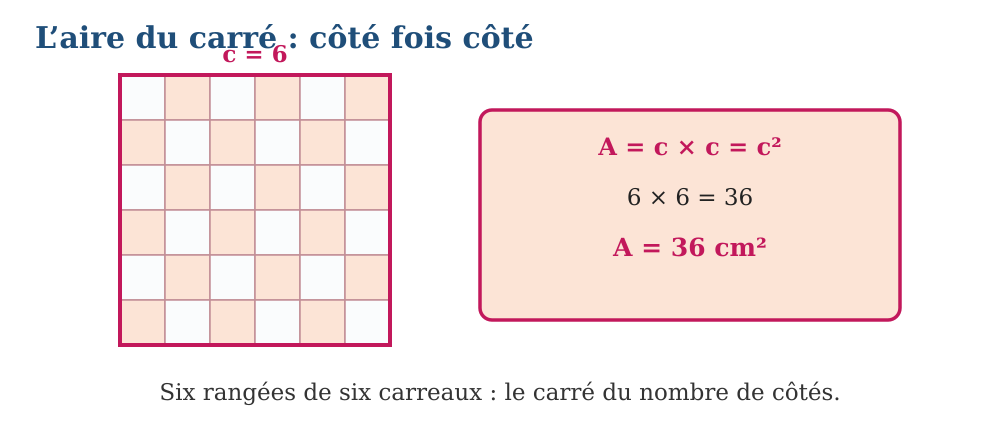
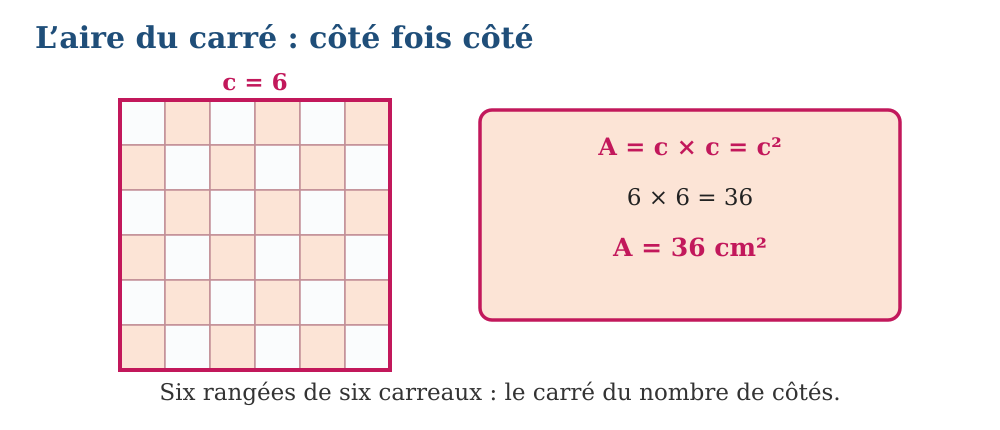
T7 U5: figs corrected (labels, widths, examples coherence)

diff --git a/scripts/t7/u5_figs2.js b/scripts/t7/u5_figs2.js
@@ -22,7 +22,8 @@ svgPng('t7u5s5_maison', svgHead(1000,430,'Un mur + un pignon : rectangle et tria
 <polygon points="110,190 340,190 225,110" fill="#FCE4D6" stroke="#C2185B" stroke-width="3.5"/>
 <text x="225" y="345" font-size="22" text-anchor="middle" fill="#1F4E79" font-weight="bold">6 m</text>
 <text x="360" y="262" font-size="22" fill="#1F4E79" font-weight="bold">4 m</text>
-<text x="262" y="150" font-size="20" fill="#C2185B" font-weight="bold">h = 2</text>
+<text x="365" y="150" font-size="20" fill="#C2185B" font-weight="bold">h = 2</text>
+<line x1="360" y1="142" x2="330" y2="130" stroke="#C2185B" stroke-width="2"/>
 <rect x="470" y="105" width="460" height="235" rx="12" fill="#E9F5EC" stroke="#1E7B34" stroke-width="3.5"/>
 <text x="700" y="150" font-size="22" text-anchor="middle" fill="#1F4E79" font-weight="bold">mur : 6 × 4 = 24 m²</text>
 <text x="700" y="198" font-size="22" text-anchor="middle" fill="#C2185B" font-weight="bold">pignon : (6 × 2) : 2 = 6 m²</text>
@@ -55,17 +56,16 @@ ${[0,1,2].map(i=>`<text x="${355+i*190}" y="${200+i*50}" font-size="21" text-anc
 
 svgPng('t7u5s6_cm3', svgHead(1000,430,'Compter les petits cubes') + `
 <g font-family="serif">
-<rect x="90" y="140" width="80" height="80" fill="#FCE4D6" stroke="#C2185B" stroke-width="3"/>
-<text x="130" y="188" font-size="20" text-anchor="middle" fill="#C2185B" font-weight="bold">1 cm³</text>
-<text x="130" y="252" font-size="19" text-anchor="middle" fill="#555">l’unité-cube</text>
-${(()=>{let r='';for(let c=0;c<3;c++)for(let l=0;l<2;l++){r+=`<rect x="${300+c*85+(3-c)*0}" y="${180+l*70}" width="85" height="70" fill="${(c+l)%2?'#EAF2F8':'#DCE9F2'}" stroke="#1F4E79" stroke-width="2.5"/>`;} return r;})()}
-${(()=>{let r='';for(let c=0;c<3;c++)for(let l=0;l<2;l++){r+=`<rect x="${300+c*85}" y="${110+l*70}" width="85" height="70" fill="${(c+l)%2?'#CFE0EC':'#EAF2F8'}" stroke="#1F4E79" stroke-width="2.5"/>`;} return r;})()}
-<text x="428" y="345" font-size="21" text-anchor="middle" fill="#1F4E79">3 × 2 × 2 = 12 cubes</text>
+<rect x="110" y="240" width="80" height="80" fill="#FCE4D6" stroke="#C2185B" stroke-width="3"/>
+<text x="150" y="288" font-size="20" text-anchor="middle" fill="#C2185B" font-weight="bold">1 cm³</text>
+<text x="150" y="350" font-size="19" text-anchor="middle" fill="#555">l’unité-cube</text>
+${(()=>{let r='';for(let c=0;c<3;c++)for(let l=0;l<2;l++){r+=`<rect x="${300+c*85}" y="${150+l*70}" width="85" height="70" fill="${(c+l)%2?'#DCE9F2':'#EAF2F8'}" stroke="#1F4E79" stroke-width="2.5"/>`;} return r;})()}
+<text x="428" y="330" font-size="21" text-anchor="middle" fill="#1F4E79">une couche : 3 × 2 = 6 cubes</text>
 <rect x="620" y="130" width="310" height="190" rx="12" fill="#EAF2F8" stroke="#1F4E79" stroke-width="3.5"/>
 <text x="775" y="172" font-size="21" text-anchor="middle" fill="#1F4E79" font-weight="bold">le pavé contient</text>
 <text x="775" y="220" font-size="26" text-anchor="middle" fill="#1F4E79" font-weight="bold">12 cm³</text>
-<text x="775" y="268" font-size="19" text-anchor="middle" fill="#555">4 couches de 6 ? Non :</text>
-<text x="775" y="296" font-size="19" text-anchor="middle" fill="#555">2 couches de 6 cubes</text>
+<text x="775" y="268" font-size="19" text-anchor="middle" fill="#555">2 couches de 6 cubes :</text>
+<text x="775" y="296" font-size="19" text-anchor="middle" fill="#555">3 × 2 × 2 = 12 cubes</text>
 <text x="500" y="405" font-size="23" text-anchor="middle" fill="#333">Le volume se mesure en comptant les cubes-unité qu’il contient.</text>
 </g></svg>`);
 
@@ -78,8 +78,8 @@ svgPng('t7u5s6_pave', svgHead(1000,430,'Le volume du pavé droit') + `
 <line x1="410" y1="110" x2="410" y2="250" stroke="#1F4E79" stroke-width="3.5"/>
 <line x1="330" y1="310" x2="410" y2="250" stroke="#1F4E79" stroke-width="3.5" stroke-dasharray="6 5"/>
 <text x="220" y="340" font-size="22" text-anchor="middle" fill="#1F4E79" font-weight="bold">L = 5 cm</text>
-<text x="440" y="300" font-size="22" fill="#1F4E79" font-weight="bold">l = 3</text>
-<text x="150" y="140" font-size="22" fill="#1F4E79" font-weight="bold">h = 2</text>
+<text x="445" y="300" font-size="22" fill="#1F4E79" font-weight="bold">l = 3</text>
+<text x="343" y="245" font-size="22" fill="#1F4E79" font-weight="bold">h = 2</text>
 <rect x="540" y="120" width="380" height="210" rx="12" fill="#E9F5EC" stroke="#1E7B34" stroke-width="3.5"/>
 <text x="730" y="165" font-size="23" text-anchor="middle" fill="#1E7B34" font-weight="bold">V = L × l × h</text>
 <text x="730" y="212" font-size="22" text-anchor="middle" fill="#222">5 × 3 × 2 = 30</text>
@@ -122,7 +122,7 @@ svgPng('t7u5s7_mille', svgHead(1000,430,'1 mètre cube = 1 000 litres') + `
 <line x1="270" y1="330" x2="330" y2="285" stroke="#1F4E79" stroke-width="3" stroke-dasharray="6 5"/>
 <text x="180" y="248" font-size="26" text-anchor="middle" fill="#1F4E79" font-weight="bold">1 m³</text>
 <text x="180" y="360" font-size="20" text-anchor="middle" fill="#555">grande citerne cubique</text>
-${(()=>{let r='';for(let i=0;i<10;i++){r+=`<rect x="${430+(i%5)*46}" y="${140+((i/5)|0)*60}" width="42" height="54" fill="#FCE4D6" stroke="#C2185B" stroke-width="2"/><text x="${451+(i%5)*46}" y="${176+((i/5)|0)*60}" font-size="16" text-anchor="middle" fill="#C2185B" font-weight="bold">100 L</text>`;} return r;})()}
+${(()=>{let r='';for(let i=0;i<10;i++){r+=`<rect x="${430+(i%5)*46}" y="${140+((i/5)|0)*60}" width="42" height="54" fill="#FCE4D6" stroke="#C2185B" stroke-width="2"/><text x="${451+(i%5)*46}" y="${174+((i/5)|0)*60}" font-size="12" text-anchor="middle" fill="#C2185B" font-weight="bold">100 L</text>`;} return r;})()}
 <text x="545" y="290" font-size="20" text-anchor="middle" fill="#C2185B" font-weight="bold">10 × 100 L…</text>
 <rect x="730" y="140" width="230" height="190" rx="12" fill="#E9F5EC" stroke="#1E7B34" stroke-width="3.5"/>
 <text x="845" y="182" font-size="22" text-anchor="middle" fill="#1E7B34" font-weight="bold">1 m³ = 1 000 dm³</text>
@@ -178,9 +178,9 @@ svgPng('t7u5s8_exemple', svgHead(1000,430,'Exemple résolu : la clôture du cham
 <text x="705" y="137" font-size="21" text-anchor="middle" fill="#1E7B34" font-weight="bold">solution rédigée</text>
 <text x="705" y="180" font-size="21" text-anchor="middle" fill="#222">P = 2 × (45 + 30)</text>
 <text x="705" y="222" font-size="21" text-anchor="middle" fill="#222">P = 2 × 75 = 150 m</text>
-<text x="705" y="268" font-size="20" text-anchor="middle" fill="#222">150 × 12 = 1 800 m de fil (3 rangs)</text>
+<text x="705" y="268" font-size="21" text-anchor="middle" fill="#222">fil : 3 × 150 = 450 m</text>
 <text x="705" y="318" font-size="20" text-anchor="middle" fill="#555">Il faut 150 m de clôture, soit</text>
-<text x="705" y="348" font-size="20" text-anchor="middle" fill="#555">1 800 m de fil pour trois rangs.</text>
+<text x="705" y="348" font-size="20" text-anchor="middle" fill="#555">450 m de fil pour trois rangs.</text>
 </g></svg>`);
 
 svgPng('t7u5s8_bilan', svgHead(1000,430,'Bilan de l’unité : ce que je sais mesurer') + `

diff --git a/scripts/t7/u5_figs1.js b/scripts/t7/u5_figs1.js
@@ -40,7 +40,7 @@ ${[['2','80'],['5','200'],['0','320'],['0','440']].map(d=>`<text x="${+d[1]+60}"
 <text x="955" y="182" font-size="24" fill="#555" text-anchor="end">← virgule en m</text>
 <rect x="230" y="235" width="540" height="70" rx="12" fill="#E9F5EC" stroke="#1E7B34" stroke-width="3"/>
 <text x="500" y="279" font-size="26" text-anchor="middle" fill="#1E7B34" font-weight="bold">2,5 km = 2 500 m</text>
-<text x="500" y="335" font-size="22" text-anchor="middle" fill="#333">Le chiffre des unités (2) se pose dans la colonne de l’unité donnée (km) ; on complète de zéros jusqu’à l’unité demandée (m).</text>
+<text x="500" y="335" font-size="21" text-anchor="middle" fill="#333">Les unités se posent sous l’unité donnée, puis on complète de zéros.</text>
 <text x="500" y="385" font-size="22" text-anchor="middle" fill="#1F4E79" font-weight="bold">Retenir : 1 km = 1 000 m ; 1 m = 100 cm ; 1 cm = 10 mm.</text>
 </g></svg>`);
 
@@ -71,8 +71,8 @@ svgPng('t7u5s2_somme', svgHead(1000,430,'Additionner deux longueurs') + `
 <text x="750" y="160" font-size="21" text-anchor="middle" fill="#C2185B" font-weight="bold">ruban saumon : 350 m</text>
 <text x="750" y="198" font-size="22" text-anchor="middle" fill="#222">déjà en mètres</text>
 <text x="750" y="240" font-size="24" text-anchor="middle" fill="#C2185B" font-weight="bold">= 350 m</text>
-<rect x="260" y="300" width="480" height="70" rx="12" fill="#E9F5EC" stroke="#1E7B34" stroke-width="3.5"/>
-<text x="500" y="345" font-size="26" text-anchor="middle" fill="#1E7B34" font-weight="bold">1 200 + 350 = 1 550 m = 1,55 km</text>
+<rect x="230" y="300" width="540" height="70" rx="12" fill="#E9F5EC" stroke="#1E7B34" stroke-width="3.5"/>
+<text x="500" y="345" font-size="25" text-anchor="middle" fill="#1E7B34" font-weight="bold">1 200 + 350 = 1 550 m = 1,55 km</text>
 </g></svg>`);
 
 svgPng('t7u5s2_balance', svgHead(1000,430,'Additionner deux masses') + `
@@ -84,8 +84,8 @@ svgPng('t7u5s2_balance', svgHead(1000,430,'Additionner deux masses') + `
 <line x1="440" y1="200" x2="440" y2="260" stroke="#222" stroke-width="3"/>
 <path d="M110 260 A 50 28 0 0 0 210 260" fill="#EAF2F8" stroke="#1F4E79" stroke-width="3"/>
 <path d="M390 260 A 50 28 0 0 0 490 260" fill="#FCE4D6" stroke="#C2185B" stroke-width="3"/>
-<text x="160" y="280" font-size="20" text-anchor="middle" fill="#1F4E79" font-weight="bold">riz : 2,5 kg</text>
-<text x="440" y="280" font-size="20" text-anchor="middle" fill="#C2185B" font-weight="bold">haricots : 750 g</text>
+<text x="160" y="315" font-size="20" text-anchor="middle" fill="#1F4E79" font-weight="bold">riz : 2,5 kg</text>
+<text x="440" y="315" font-size="20" text-anchor="middle" fill="#C2185B" font-weight="bold">haricots : 750 g</text>
 <rect x="560" y="110" width="380" height="215" rx="12" fill="#E9F5EC" stroke="#1E7B34" stroke-width="3.5"/>
 <text x="750" y="152" font-size="20" text-anchor="middle" fill="#1E7B34" font-weight="bold">convertir en grammes</text>
 <text x="750" y="195" font-size="22" text-anchor="middle" fill="#222">2,5 kg = 2 500 g</text>
@@ -159,9 +159,9 @@ ${(()=>{let r='';for(let i=0;i<8;i++)for(let j=0;j<5;j++){r+=`<rect x="${90+i*45
 
 svgPng('t7u5s4_carre', svgHead(1000,430,'L’aire du carré : côté fois côté') + `
 <g font-family="serif">
-${(()=>{let r='';for(let i=0;i<6;i++)for(let j=0;j<6;j++){r+=`<rect x="${120+i*45}" y="${75+j*45}" width="45" height="45" fill="${(i+j)%2?'#FCE4D6':'#FAFCFD'}" stroke="#C28E96" stroke-width="1.5"/>`;} return r;})()}
-<rect x="120" y="75" width="270" height="270" fill="none" stroke="#C2185B" stroke-width="4"/>
-<text x="255" y="62" font-size="23" text-anchor="middle" fill="#C2185B" font-weight="bold">c = 6</text>
+${(()=>{let r='';for(let i=0;i<6;i++)for(let j=0;j<6;j++){r+=`<rect x="${120+i*45}" y="${100+j*45}" width="45" height="45" fill="${(i+j)%2?'#FCE4D6':'#FAFCFD'}" stroke="#C28E96" stroke-width="1.5"/>`;} return r;})()}
+<rect x="120" y="100" width="270" height="270" fill="none" stroke="#C2185B" stroke-width="4"/>
+<text x="255" y="90" font-size="23" text-anchor="middle" fill="#C2185B" font-weight="bold">c = 6</text>
 <rect x="480" y="110" width="420" height="210" rx="12" fill="#FCE4D6" stroke="#C2185B" stroke-width="3.5"/>
 <text x="690" y="155" font-size="24" text-anchor="middle" fill="#C2185B" font-weight="bold">A = c × c = c²</text>
 <text x="690" y="205" font-size="23" text-anchor="middle" fill="#222">6 × 6 = 36</text>
@@ -182,5 +182,5 @@ svgPng('t7u5s4_triangle', svgHead(1000,430,'L’aire du triangle : la moitié du
 <text x="715" y="155" font-size="24" text-anchor="middle" fill="#1E7B34" font-weight="bold">A = (b × h) : 2</text>
 <text x="715" y="205" font-size="22" text-anchor="middle" fill="#222">(6 × 4) : 2 = 24 : 2</text>
 <text x="715" y="256" font-size="25" text-anchor="middle" fill="#1E7B34" font-weight="bold">A = 12 cm²</text>
-<text x="500" y="385" font-size="23" text-anchor="middle" fill="#333">Deux triangles rectangles identiques reconstituent le rectangle : chacun en vaut la moitié.</text>
+<text x="500" y="385" font-size="21" text-anchor="middle" fill="#333">Deux triangles identiques reforment le rectangle : chacun vaut la moitié.</text>
 </g></svg>`);
